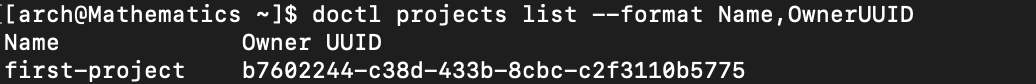
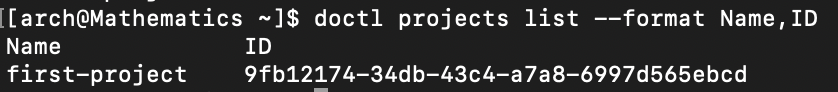
final changes for now

diff --git a/README.md b/README.md
@@ -30,13 +30,14 @@ Doctl is the DigitalOcean command line interface (CLI)[^3].
 
 ### What is Cloud-init?
 
-Cloud-init is a tool that handles a range of tasks from setting hostname, configuring network interfaces, etc when a new instance is created. Mainly we will be using it to run a script[^5].
+Cloud-init is a tool that handles a range of tasks from setting hostname, configuring network interfaces, etc when a new instance is created. We will mainly be using it to run a script[^5].
 
-By the end of this tutorial, you will be able to learn how to:
+### By the end of this tutorial, you will be able to learn how to:
+
 - Create your own SSH keys on your local machine.
 - Install doctl on your Arch Linux machine.
 - Connect your DigitalOcean account to your Arch Linux machine using doctl. 
-- Use cloud-init to download all necessary packages.
+- Use Cloud-init to download all necessary packages.
 - Create a new droplet using doctl.
 
 ## Task 1: Creating SSH key
@@ -47,13 +48,13 @@ This task will help you create your own SSH key pair (a private and public key) 
 
 Use the following command,
 ```
-ssh-keygen -t ed25519 -f ~/.ssh/doctl-key -C "USERNAME"
+ssh-keygen -t ed25519 -f ~/.ssh/doctl-key -C <USERNAME>
 ```
 
-In this case the USERNAME can be your username or your email. 
+In this case the `USERNAME` can be your username or your email. 
 -  `ssh-keygen`: OpenSSH authentication key utility that is built in into your OS machine[^7].
 -  `-t`: Specifies the type of key to create. In this case it would be the default `ed25519`[^7].
--  `-f`: *filename* Specifies the filename of the key file[^7].
+-  `-f`: Specifies the filename of the key file[^7].
 -  `~`: The home directory[^7].
 - `-C`: Provides a new comment[^7].
 
@@ -65,7 +66,7 @@ Now we should check if we have our SSH key in our ssh directory, type this comma
 ```
 ls ~/.ssh
 ```
-to check if files `doctl-key`, which is your private key (do not share this) and `doctl-key.pub`, which is your public key to use to make the droplet, are listed.
+to check if files, `doctl-key`, which is your private key (do not share this) and `doctl-key.pub`, which is your public key to use to make the droplet, are listed.
 
 - `cd`: This is used to change directory[^7].
 - `ls`: This is used to list all the files and directories in the current directory that you are in[^7].
@@ -74,7 +75,7 @@ Congratulations, you have now created your own SSH keys[^4].
 
 ## Task 2: Installing Doctl and Connecting DigitalOcean using an API.
 
-**Overview**: This task will help guide you to install doctl on your terminal and creating your first droplet using doctl.
+This task will help guide you to install Doctl on your terminal and creating your first droplet using Doctl.
 
 1. **Install Doctl**
 
@@ -82,12 +83,13 @@ First run
 ```
 sudo pacman -S doctl
 ```
-- sudo: Raises your privileges to run certain commands
-- pacman: Package manager from arch
+- `sudo`: Raises your privileges to run certain commands[^1].
+- `pacman`: Package manager from arch[^1].
+- `-S`: Sync database flag[^1].
 
 2. **Create an API token**
 
-Now we will create an API token and make it so it grants account access to doctl. Go to your DigitalOcean account, then on the left hand dashboard, click on **API**[^8].
+Now we will create an API token and make it so it grants account access to Doctl. Go to your DigitalOcean account, then on the left hand dashboard, click on **API**[^8].
 
 <img src="assests/dashboard.png" alt="dashboard" width="150"/>
 
@@ -99,7 +101,7 @@ Enter your token name
 
 <img src="assests/token_name.png" alt="token_name" width="450"/>
 
-Select **Full Access**, this will grant you the token all scopes available.
+Select **Full Access**, this will grant you the token with all scopes available[^8].
 
 <img src="assests/full_access.png" alt="full_access" width="450"/>
 
@@ -107,12 +109,12 @@ Click **Generate Token**
 
 3. **Use the API token to grant access to Doctl**
 
-Copy your personal access token from the DigitalOcean site, then go to your arch terminal and running the command.
+Copy your personal access token from the DigitalOcean site, then go to your Arch terminal and running the command.
 ```
 doctl auth init --context <NAME>
 ```
-`<NAME>` is name you give you give to save the token.
-- `doctl auth init`: Initializes doctl to use a specific account[^3].
+`<NAME>` is the name you gave when you saved the token.
+- `doctl auth init`: Initializes Doctl to use a specific account[^3].
 - `--context`: Specify a custom authentication context name[^3].
 
 Now there will be a prompt,
@@ -134,7 +136,7 @@ Finally check if your account is connected by running
 ```
 doctl account get
 ```
-Where you can get the following details of your account profile (3):
+Where you can get the following details of your account profile [^3]:
 - Email address
 - Team
 - Account Droplet limit
@@ -150,12 +152,10 @@ First use the command,
 ```
 cat ~/.ssh/doctl-key.pub
 ```
-your public SSH key should show up. Now copy the key.
+your public SSH key should show up.
 - `cat`: Show contents of a file all at once[^3].
 
 Then type the command 
->[!Note]
->Do not copy this code as your clipboard will forget your SSH key that copied in the previous step
 ```
 doctl compute ssh-key "<KEYNAME>" create --public-key "<Paste your key in here>"
 ```
@@ -203,11 +203,13 @@ Run,
 ```
 nvim cloud-init
 ```
-To open the cloud-init file and edit it using *nvim*.
+To open the Cloud-init file and edit it using `nvim`.
 
 5. **Configure your Cloud-init**
 
 Now press `i` on your keyboard and paste ALL of the code below in the file,
+> [!IMPORTANT]
+> Include the `#cloud-config` part of the code as it may cause problems if not included. This is to initialize the Cloud file[^4].
 ```
 #cloud-config
 users:
@@ -229,9 +231,9 @@ packages:
   - tmux
 disable_root: true
 ```
-Press `esc` and type `:wq` to exit save the contents and exit nvim. 
-- `users`: Adds users to the system[^12].
-- `packages`: All packages that you will install.
+Press `esc` then type `:wq` to exit save the contents and exit using nvim. 
+- `users`: Adds users to the system[^4].
+- `packages`: All packages that you will install[^4].
 	- `ripgrep`: A search tool[^3].
 	- `rsync`: Provides fast incremental file transfer[^3].
 	- `fd`: Easier way to use find[^3].
@@ -239,34 +241,34 @@ Press `esc` and type `:wq` to exit save the contents and exit nvim.
 	- `man-db`: Utility to read `man` pages[^3].
 	- `bash-completion`: Programmable completion for bash shell[^3].
 	- `tmux`: Terminal multiplier[^3].
-- `disable_root`: This determines if root login is disabled or not[^5].
+- `disable_root`: This determines if root login is disabled or not[^4].
 
 6. **Paste your SSH key inside Cloud-init**
 
-Once again you need to get your SSH key using `cat ~/.ssh/doctl-key.pub`. Now copy the key and once again run `nvim cloud-init` and paste your key inside the `ssh-authorized-keys` like, 
+Once again you need to get your SSH key using `cat ~/.ssh/doctl-key.pub`. Now copy the key and once again run `nvim cloud-init` and paste your key inside the `ssh-authorized-keys` similar to the following way, 
 ```
 ssh-authorized-keys:
-      - ssh-ed25519 AAAAAAAAAAAAAAAAAAAAAAAAAAAAAAAAAAAAAAAAAAAAAAAAAAAAAA name
+      - ssh-ed25519 AAAAAAAAAAAAAAAAAAAAAAAAAAAAAAAAAAAAAAAAAAAAAAAAAAAAAA <name>
 ```
-Exit out of nvim again 
+Exit out using nvim again 
 
 Now you have completed in making your Cloud-init YAML file inside the droplet directory.
 
-## Task 4: Making the droplet with the cloud-init file
-Now that you are done making a cloud-init file, you will now proceed to make a droplet using doctl. First you will need to find all the data necessary on your account to make the droplet.
+## Task 4: Making the droplet with the Cloud-init file
+Now that you are done making a Cloud-init file, you will now proceed to make a droplet using doctl. First you will need to find all the data necessary on your account to make the droplet.
 
 >[!Note]
->Make sure **NOT** to run *clear* when running these following commands as you will need to have the ID's for your *project, arch image,* and *ssh-key* to copy and paste.
+>Make sure **NOT** to run `clear` when running these following commands as you will need to have the ID's for your `project`, `arch image`, and `ssh-key` to copy and paste.
 
 1. **Checking projects in DigitalOcean**
 
 Check if you have multiple projects on your DigitalOcean account by running,
 ```
-doctl projects list --format Name,OwnerUUID
+doctl projects list --format Name,ID
 ```
-This command will show all your project names with each respective UUID,
+This command will show all your project names with each respective ID,
 - `doctl projects list`: List details for your DigitalOcean projects[^3].
-- `--format`: Flag to return only the `Name` and `OwnerUUID` in this case[^3].
+- `--format`: Flag to return only the `Name` and `ID` in this case[^3].
 
 <img src="assests/project_list.png" alt="project_list" width="450"/>
 
@@ -306,45 +308,62 @@ Make sure you have the ID and the name of your SSH key that you made earlier.
 
 Run this command to make your droplet,
 ```
-doctl compute droplet create <droplet name> --size s-1vcpu-1gb-amd --region Sfo3 --user-data-file ~/droplet/cloud-init --project-id <Paste your Project UUID> --image <Paste your Arch Linux image ID> --ssh-keys <Paste your SSH key ID>
+doctl compute droplet create <droplet name> --size s-1vcpu-1gb-amd --region Sfo3 --user-data-file ~/droplet/cloud-init --project-id <Project ID> --image <Arch Linux image ID> --ssh-keys <SSH key ID>
 ```
 - `doctl compute droplet create`: Creates a new Droplet on your account[^3].
 - `--size`: A slug indicating the Droplet's number of vCPUs, RAM and disk size[^3].
 	- In this case we are using `s-1vcpu-1gb-amd` which is a Basic AMD with 1 GB CPU memory, 1 vCPU, and 10GB of Disk space.
-	- If you want more information on other slugs that are available type this command: 
+	- If you want more information on other slugs that are available type the command:
+
 		`doctl compute size list`[^3].
 - `--region`: Slug to specify the region to create the Droplet in[^3].
 	- In this case we are using `Sfo3` which is in San Francisco Datacenter 3
-	- If you want more information on other valid region, type this command:
+	- If you want more information on other valid region, type the command:
+
 		`doctl compute region list`[^3].
 - `--user-data-file`: The path to a file containing a Cloud-init YAML file to run on the Droplet's first boot[^3].
-- `--project-id`: The UUID of the project to assign the Droplet to[^3].
+- `--project-id`: The ID of the project to assign the Droplet to[^3].
 - `--image`: An ID specifying the image to create the Droplet[^3].
 - `--ssh-keys`: A list of SSH keys to embed in the Droplet's root account[^3]
+
+<img src="assests/new_droplet.png" alt="ssh_list"/>
 
 5. **Confirmation**
 
 Now let's confirm that we made our droplet by running the following command,
 ```
-doctl compute droplet list --format ID,Name,PublicIPv4 | grep <droplet name>
+doctl compute droplet list --format Name,PublicIPv4 | grep <droplet name>
 ```
 - `doctl compute droplet list`: Shows a list of all droplets on your account[^3].
 Make sure to have the IPv4 for the next task to connect to your new droplet.
+
+<img src="assests/confirm.png" alt="ssh_list" width="450"/>
 
 You have now completed in making your droplet.
 
 ## Task 5: Connecting the droplet using the VM
 You will now connect to your new droplet by using the VM.
 
-1. **Edit the config file**
+1. **Initial log in**
 
-Run the following command 
+Now run the command,
+```
+ssh -i .ssh/doctl-key <Username>@<Public IPv4 Address>
+```
+You should now be logged in the VM.
+
+>[!Note]
+> The following steps are optional. It is mainly if you want to continue logging into the new VM that you have made.
+
+2. **Edit the config file**
+
+Run the `exit` command first to return back to your original Arch Linux virtual machine. Now run the following command 
 ```
 nvim ~/.ssh/config
 ```
 You will now be editing the configuration file inside the `.ssh` directory.
 
-2. **Adding VM access**
+3. **Adding VM access**
 
 Now paste the following code inside,
 ```
@@ -357,14 +376,6 @@ Host <Name for start up>
   UserKnownHostsFile /dev/null
 ```
 Now save the changes and exit.
-
-3. **Initial log in**
-
-Now run the command,
-```
-ssh -i .ssh/doctl-key <Username>@<Public IPv4 Address>
-```
-You should now be logged in the VM.
 
 4. **Logging in**
 
